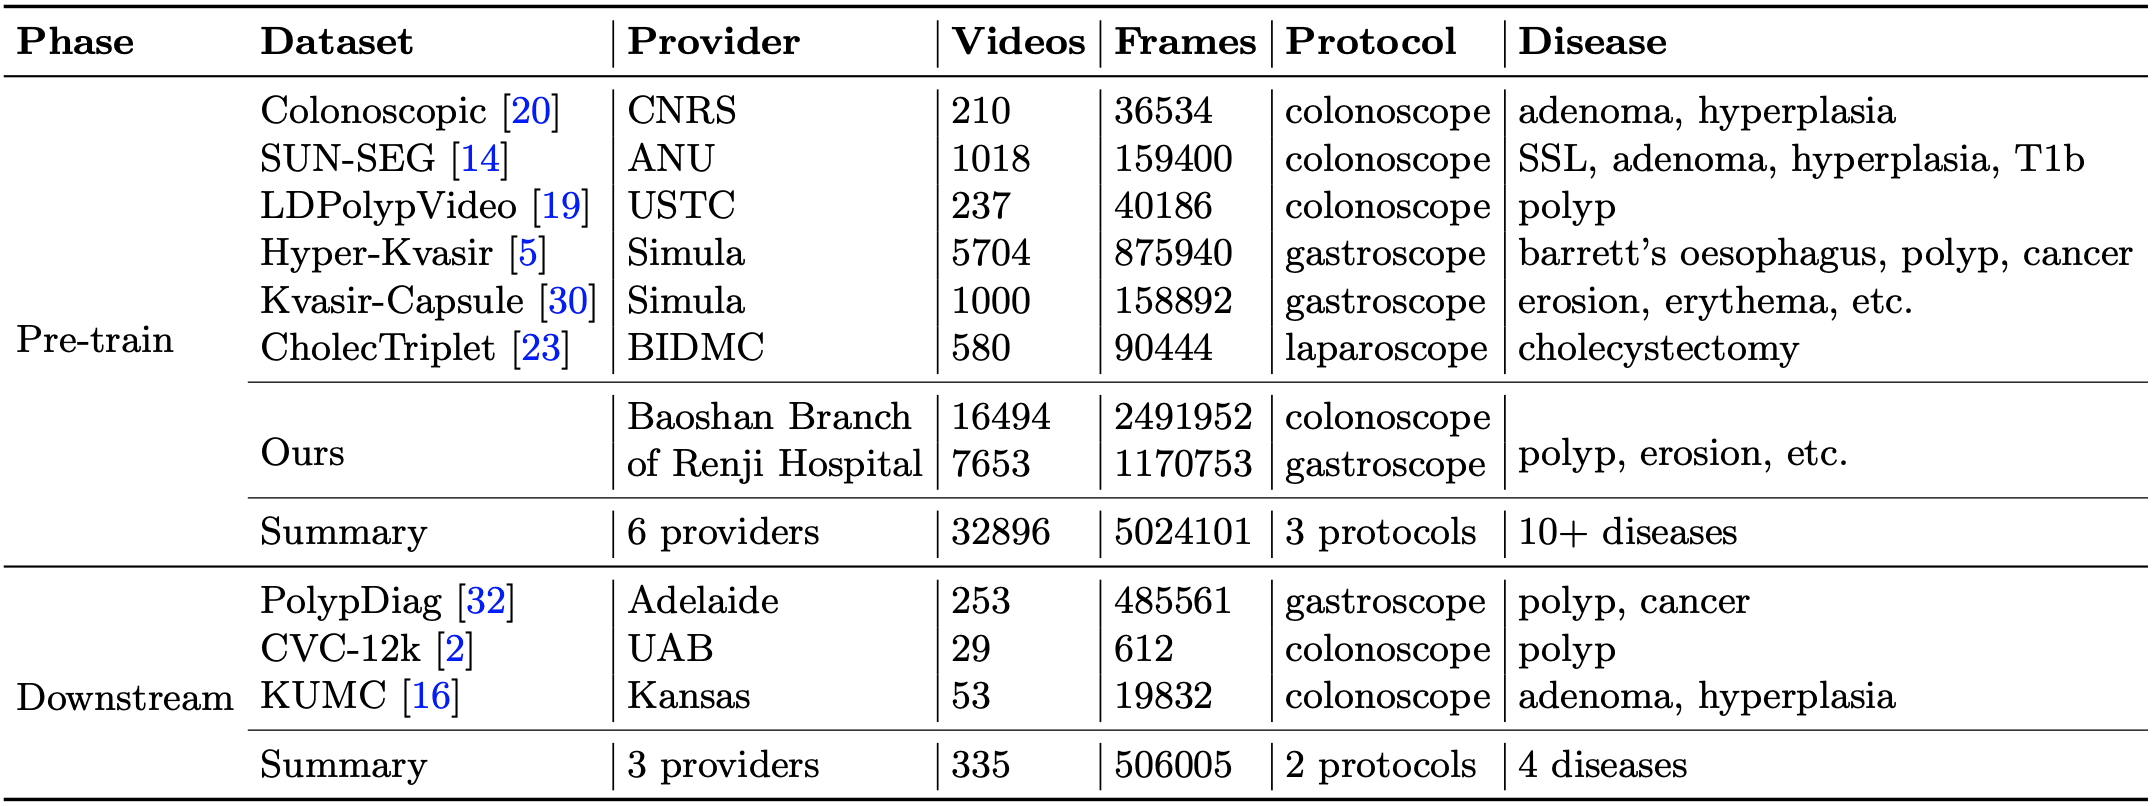
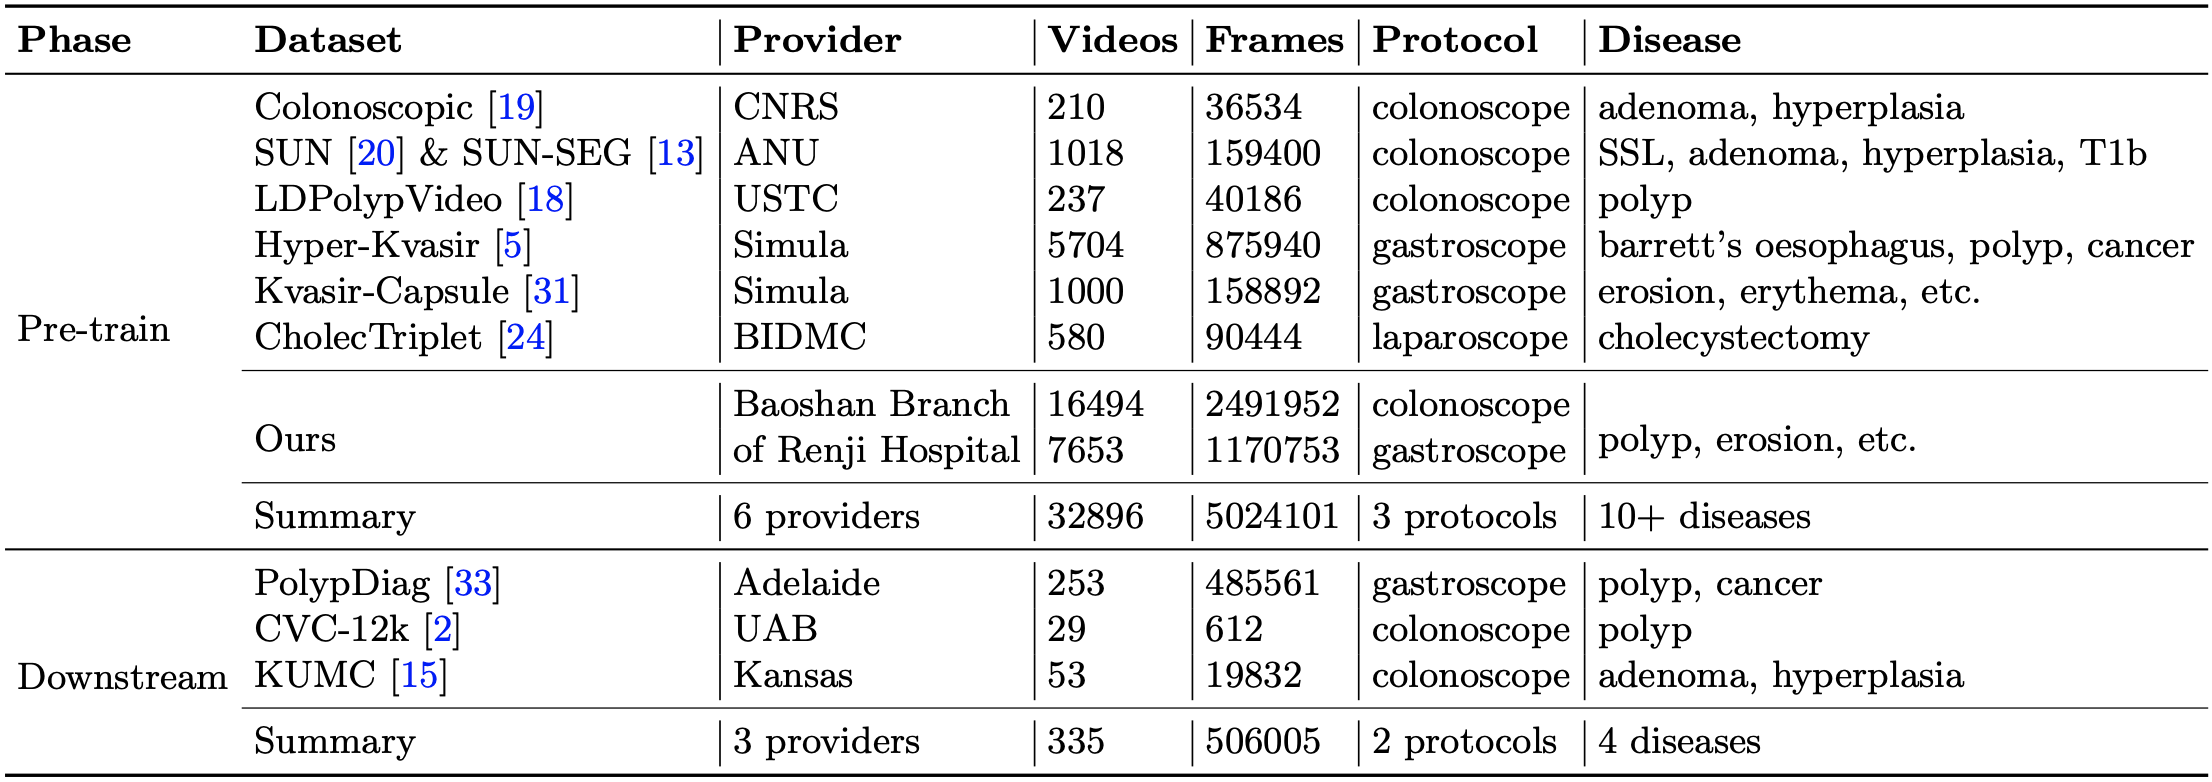
update readme

diff --git a/README.md b/README.md
@@ -122,7 +122,7 @@ by [Zhao Wang](https://kyfafyd.wang)\*, Chang Liu\*, [Shaoting Zhang](http://www
 </div>
 
 We utilize 6 public and 1 private datasets for pre-training and 3 datasets as the downstream tasks.
-Except for SUN-SEG, we provide our preprocessed data for pre-training and downstream tasks.
+Except for SUN & SUN-SEG, we provide our preprocessed data for pre-training and downstream tasks.
 
 #### Pre-training Data (6 public + 1 private) 
 - Colonoscopic [[original paper]](https://ieeexplore.ieee.org/abstract/document/7442848) [[original dataset]](http://www.depeca.uah.es/colonoscopy_dataset/)  [[our preprocessed dataset]](https://mycuhk-my.sharepoint.com/:f:/g/personal/1155167044_link_cuhk_edu_hk/EjX1xmuzLxhDgC2XFOuQm6YBymcSx0kcKRK0WJ5aLeZkZg?e=eaWcGW)
@@ -139,8 +139,8 @@ Except for SUN-SEG, we provide our preprocessed data for pre-training and downst
 - KUMC [[original paper]](https://journals.plos.org/plosone/article?id=10.1371/journal.pone.0255809) [[original dataset]](https://dataverse.harvard.edu/dataset.xhtml?persistentId=doi:10.7910/DVN/FCBUOR) [[our preprocessed dataset]](https://mycuhk-my.sharepoint.com/:f:/g/personal/1155167044_link_cuhk_edu_hk/EuhFE9IsVHlKtsTMHMCib4oBN19pH4DSr4esxoMOSQTUEA?e=f1sk0k)
 
 
-For SUN-SEG, you need first request the original videos following [this instruction](https://github.com/GewelsJI/VPS/blob/main/docs/DATA_PREPARATION.md).
-Then, you can transfer SUN-SEG for pre-training videos by the following:
+For SUN & SUN-SEG, you need first request the original videos following [this instruction](https://github.com/GewelsJI/VPS/blob/main/docs/DATA_PREPARATION.md).
+Then, you can transfer the data for pre-training videos by the following:
 ```bash
 cd Endo-FM/data
 python sun.py
